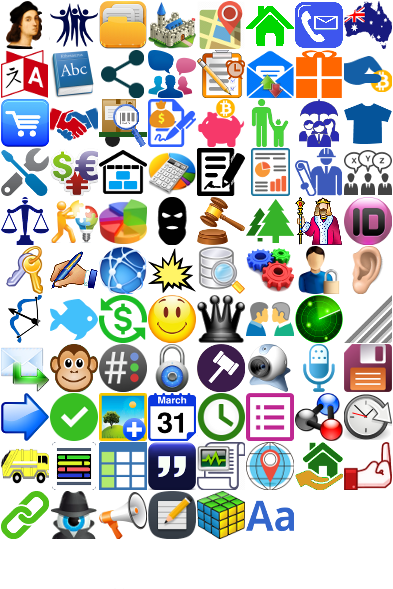
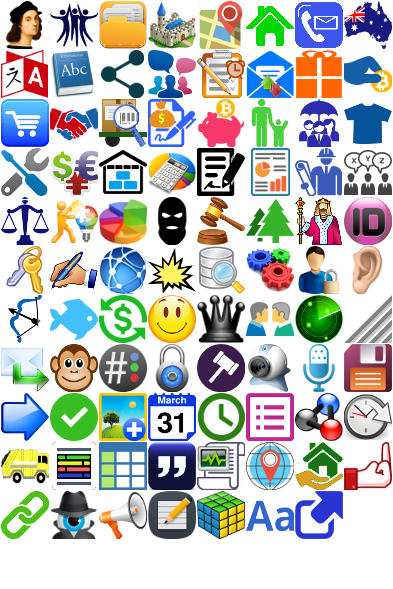
version 0.69 alpha

Changed region(s): [[0.7328, 0.8251, 0.8855, 0.9168]]

diff --git a/lib/gtk.rb b/lib/gtk.rb
@@ -4288,30 +4288,32 @@ module PandoraGtk
             #  iter = buf.get_iter_at_offset(buf.cursor_position)
             #  cur_line = iter.line if iter
             #end
-            count.times do |i|
-              x, pos = tv.buffer_to_window_coords(type, 0, @pixels[i])
-              line_num = numbers[i]
-              str = line_num.to_s
-              bg = nil
-              if fp and fp.has_line_found?(line_num-1)
-                if fp.find_line and (fp.find_line==line_num-1)
-                  @find_bg ||= Gdk::Color.parse('#F19922')
-                  bg = @find_bg
-                else
-                  @found_bg ||= Gdk::Color.parse('#DDDD00')
-                  bg = @found_bg
+            if not self.destroyed?
+              count.times do |i|
+                x, pos = tv.buffer_to_window_coords(type, 0, @pixels[i])
+                line_num = numbers[i]
+                str = line_num.to_s
+                bg = nil
+                if fp and fp.has_line_found?(line_num-1)
+                  if fp.find_line and (fp.find_line==line_num-1)
+                    @find_bg ||= Gdk::Color.parse('#F19922')
+                    bg = @find_bg
+                  else
+                    @found_bg ||= Gdk::Color.parse('#DDDD00')
+                    bg = @found_bg
+                  end
+                  #if @scale_width_in_char and (str.size<@scale_width_in_char)
+                  #  str << '     '[0, @scale_width_in_char-str.size]
+                  #end
+                elsif cur_line and (cur_line==line_num-1)
+                  @active_bg ||= Gdk::Color.parse('#A10000')
+                  bg = @active_bg
                 end
-                #if @scale_width_in_char and (str.size<@scale_width_in_char)
-                #  str << '     '[0, @scale_width_in_char-str.size]
-                #end
-              elsif cur_line and (cur_line==line_num-1)
-                @active_bg ||= Gdk::Color.parse('#A10000')
-                bg = @active_bg
+                @layout.text = str
+                #widget.style.paint_layout(target, widget.state, false, \
+                #  nil, widget, nil, 2, pos, @layout)   #Gtk2 fails sometime!!!
+                left_win.draw_layout(@gc, 2, pos, @layout, nil, bg)
               end
-              @layout.text = str
-              #widget.style.paint_layout(target, widget.state, false, \
-              #  nil, widget, nil, 2, pos, @layout)   #Gtk2 fails sometime!!!
-              left_win.draw_layout(@gc, 2, pos, @layout, nil, bg)
             end
             #draw_pixmap
           elsif event_win == right_win
@@ -6150,65 +6152,68 @@ module PandoraGtk
       row ||= fields
       fields.each do |field|
         fld_id = field[PandoraUtils::FI_Id]
+        val = nil
         entry = field[PandoraUtils::FI_Widget]
-        val = entry.text
-        if (fld_id=='panhash_lang')
-          begin
-            lang = val.to_i if val.size>0
-          rescue
-            lang = nil
-          end
-        else
-          type = field[PandoraUtils::FI_Type]
-          view = field[PandoraUtils::FI_View]
-          if ((panobject.kind==PK_Relation) and val \
-          and ((fld_id=='first') or (fld_id=='second')))
-            PandoraModel.del_image_from_cache(val, true)
-          elsif (panobject.kind==PK_Parameter) and (fld_id=='value')
-            par_type = panobject.field_val('type', row)
-            setting = panobject.field_val('setting', row)
-            ps = PandoraUtils.decode_param_setting(setting)
-            view = ps['view']
-            view ||= PandoraUtils.pantype_to_view(par_type)
-          elsif file_way
-            p 'file_way2='+file_way.inspect
-            if (fld_id=='type')
-              val = PandoraUtils.detect_file_type(file_way) if (not val) or (val.size==0)
-            elsif (fld_id=='sha1')
-              if file_way_exist
-                sha1 = Digest::SHA1.file(file_way)
-                val = sha1.hexdigest
-              else
-                val = nil
-              end
-            elsif (fld_id=='md5')
-              if file_way_exist
-                md5 = Digest::MD5.file(file_way)
-                val = md5.hexdigest
-              else
-                val = nil
-              end
-            elsif (fld_id=='size')
-              val = File.size?(file_way)
-            end
-          end
-          #p 'fld, val, type, view='+[fld_id, val, type, view].inspect
-          val = PandoraUtils.view_to_val(val, type, view)
-          if (view=='blob') or (view=='text')
-            if val and (val.size>0)
-              file_way = PandoraUtils.absolute_path(val)
-              file_way_exist = File.exist?(file_way)
-              #p 'file_way1='+file_way.inspect
-              val = '@'+val
-              flds_hash[fld_id] = val
-              field[PandoraUtils::FI_Value] = val
-              #p '----TEXT ENTR!!!!!!!!!!!'
-            else
-              flds_hash[fld_id] = field[PandoraUtils::FI_Value]
+        if entry and (not entry.destroyed?)
+          val = entry.text
+          if (fld_id=='panhash_lang')
+            begin
+              lang = val.to_i if val.size>0
+            rescue
+              lang = nil
             end
           else
-            flds_hash[fld_id] = val
-            field[PandoraUtils::FI_Value] = val
+            type = field[PandoraUtils::FI_Type]
+            view = field[PandoraUtils::FI_View]
+            if ((panobject.kind==PK_Relation) and val \
+            and ((fld_id=='first') or (fld_id=='second')))
+              PandoraModel.del_image_from_cache(val, true)
+            elsif (panobject.kind==PK_Parameter) and (fld_id=='value')
+              par_type = panobject.field_val('type', row)
+              setting = panobject.field_val('setting', row)
+              ps = PandoraUtils.decode_param_setting(setting)
+              view = ps['view']
+              view ||= PandoraUtils.pantype_to_view(par_type)
+            elsif file_way
+              p 'file_way2='+file_way.inspect
+              if (fld_id=='type')
+                val = PandoraUtils.detect_file_type(file_way) if (not val) or (val.size==0)
+              elsif (fld_id=='sha1')
+                if file_way_exist
+                  sha1 = Digest::SHA1.file(file_way)
+                  val = sha1.hexdigest
+                else
+                  val = nil
+                end
+              elsif (fld_id=='md5')
+                if file_way_exist
+                  md5 = Digest::MD5.file(file_way)
+                  val = md5.hexdigest
+                else
+                  val = nil
+                end
+              elsif (fld_id=='size')
+                val = File.size?(file_way)
+              end
+            end
+            #p 'fld, val, type, view='+[fld_id, val, type, view].inspect
+            val = PandoraUtils.view_to_val(val, type, view)
+            if (view=='blob') or (view=='text')
+              if val and (val.size>0)
+                file_way = PandoraUtils.absolute_path(val)
+                file_way_exist = File.exist?(file_way)
+                #p 'file_way1='+file_way.inspect
+                val = '@'+val
+                flds_hash[fld_id] = val
+                field[PandoraUtils::FI_Value] = val
+                #p '----TEXT ENTR!!!!!!!!!!!'
+              else
+                flds_hash[fld_id] = field[PandoraUtils::FI_Value]
+              end
+            else
+              flds_hash[fld_id] = val
+              field[PandoraUtils::FI_Value] = val
+            end
           end
         end
       end
@@ -7212,7 +7217,7 @@ module PandoraGtk
           end
         end
       end
-      PandoraGtk.add_tool_btn(toolbar, Gtk::Stock::JUMP_TO, 'Link') do
+      PandoraGtk.add_tool_btn(toolbar, :link, 'Link') do
         bodywin.insert_tag('link', 'http://priroda.su', 'Priroda.SU')
       end
 
@@ -7306,6 +7311,9 @@ module PandoraGtk
       btn.menu = menu
       add_menu_item(btn, menu, Gtk::Stock::FIND_AND_REPLACE) do
         bodywin.body_child.show_hide_find_panel(true, true)
+      end
+      add_menu_item(btn, menu, Gtk::Stock::JUMP_TO) do
+        bodywin.body_child.show_line_panel
       end
       menu.show_all
 
